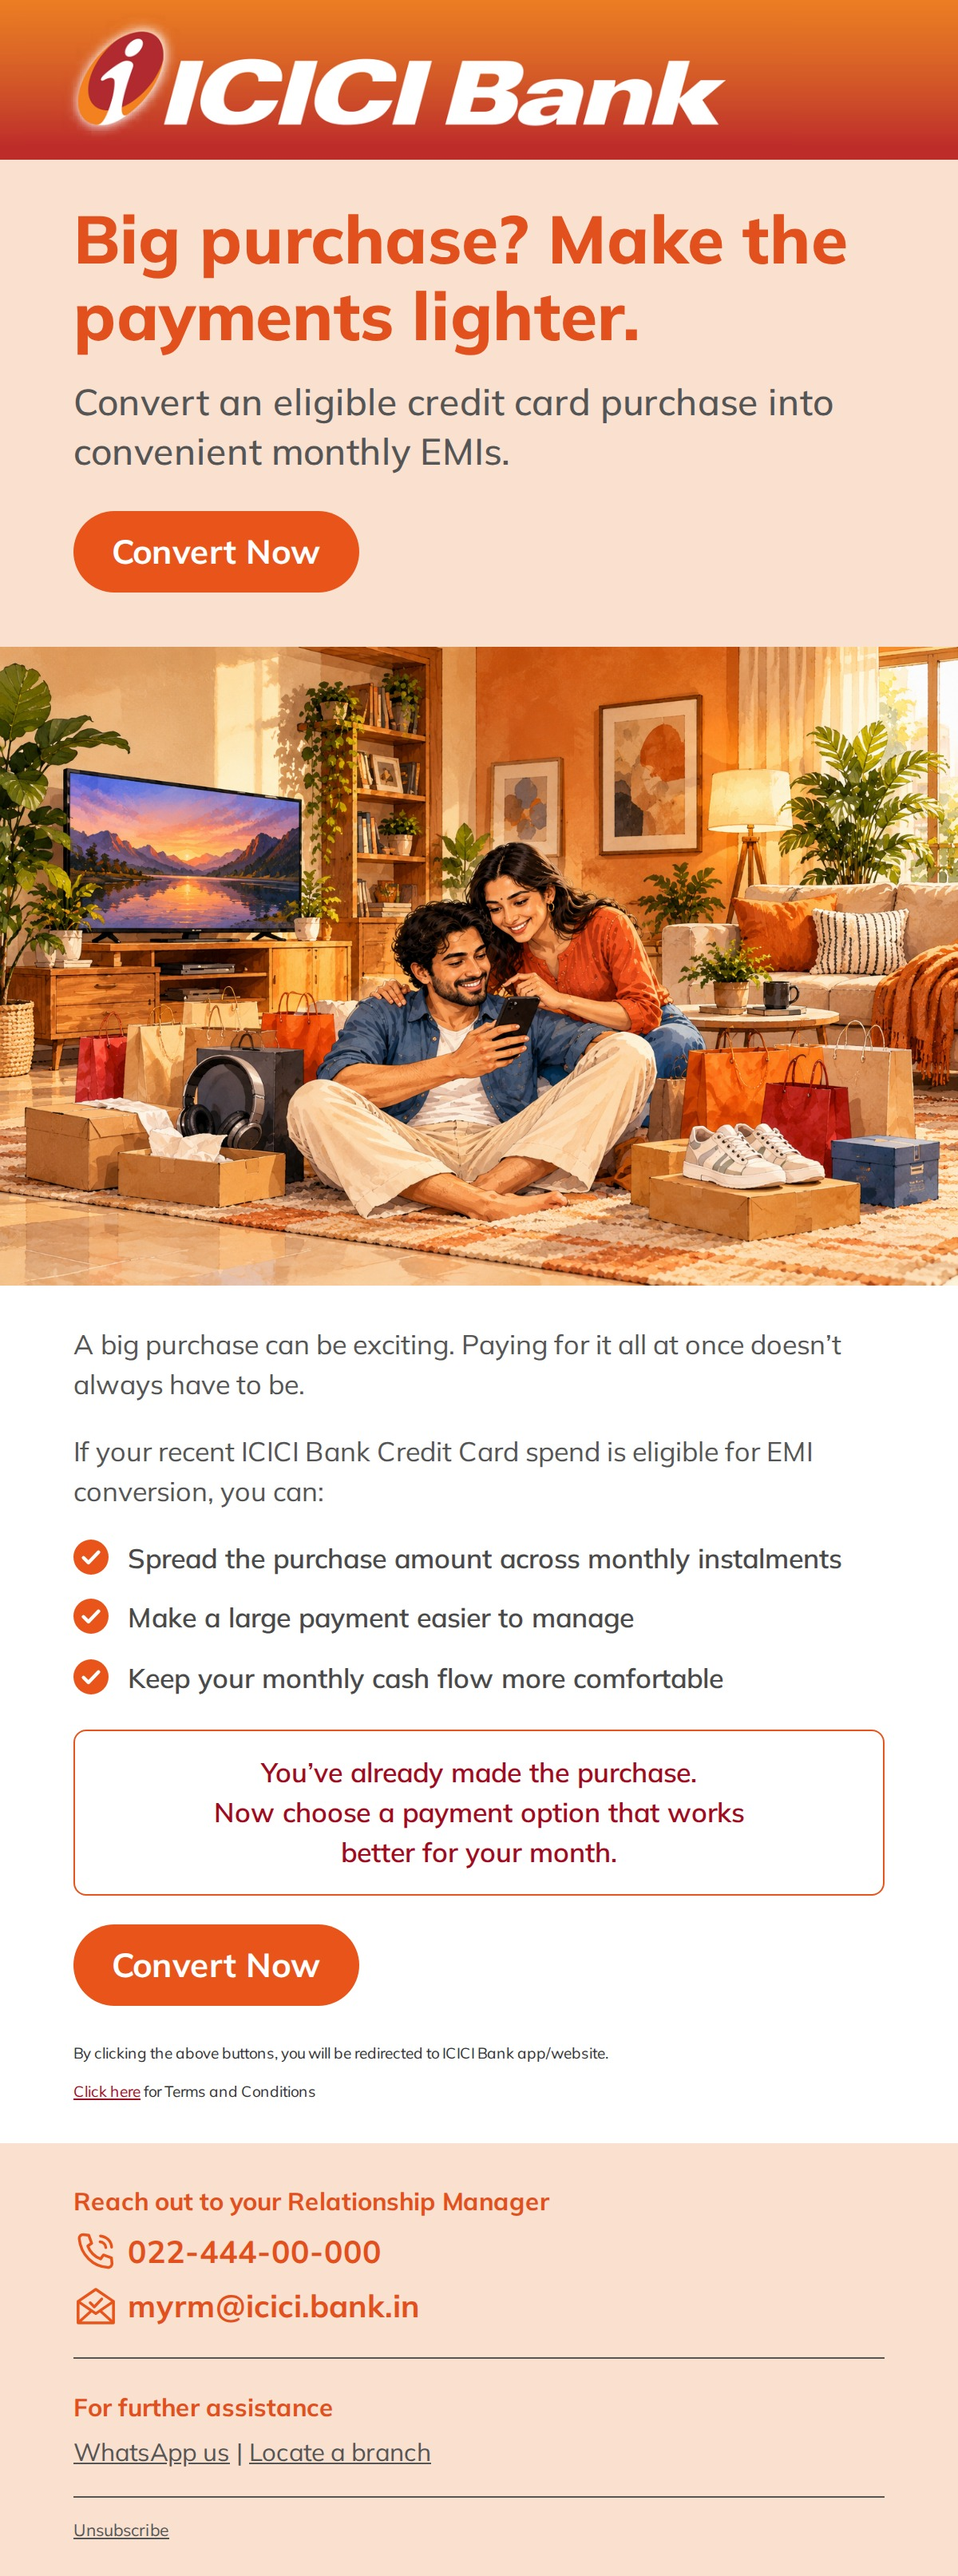
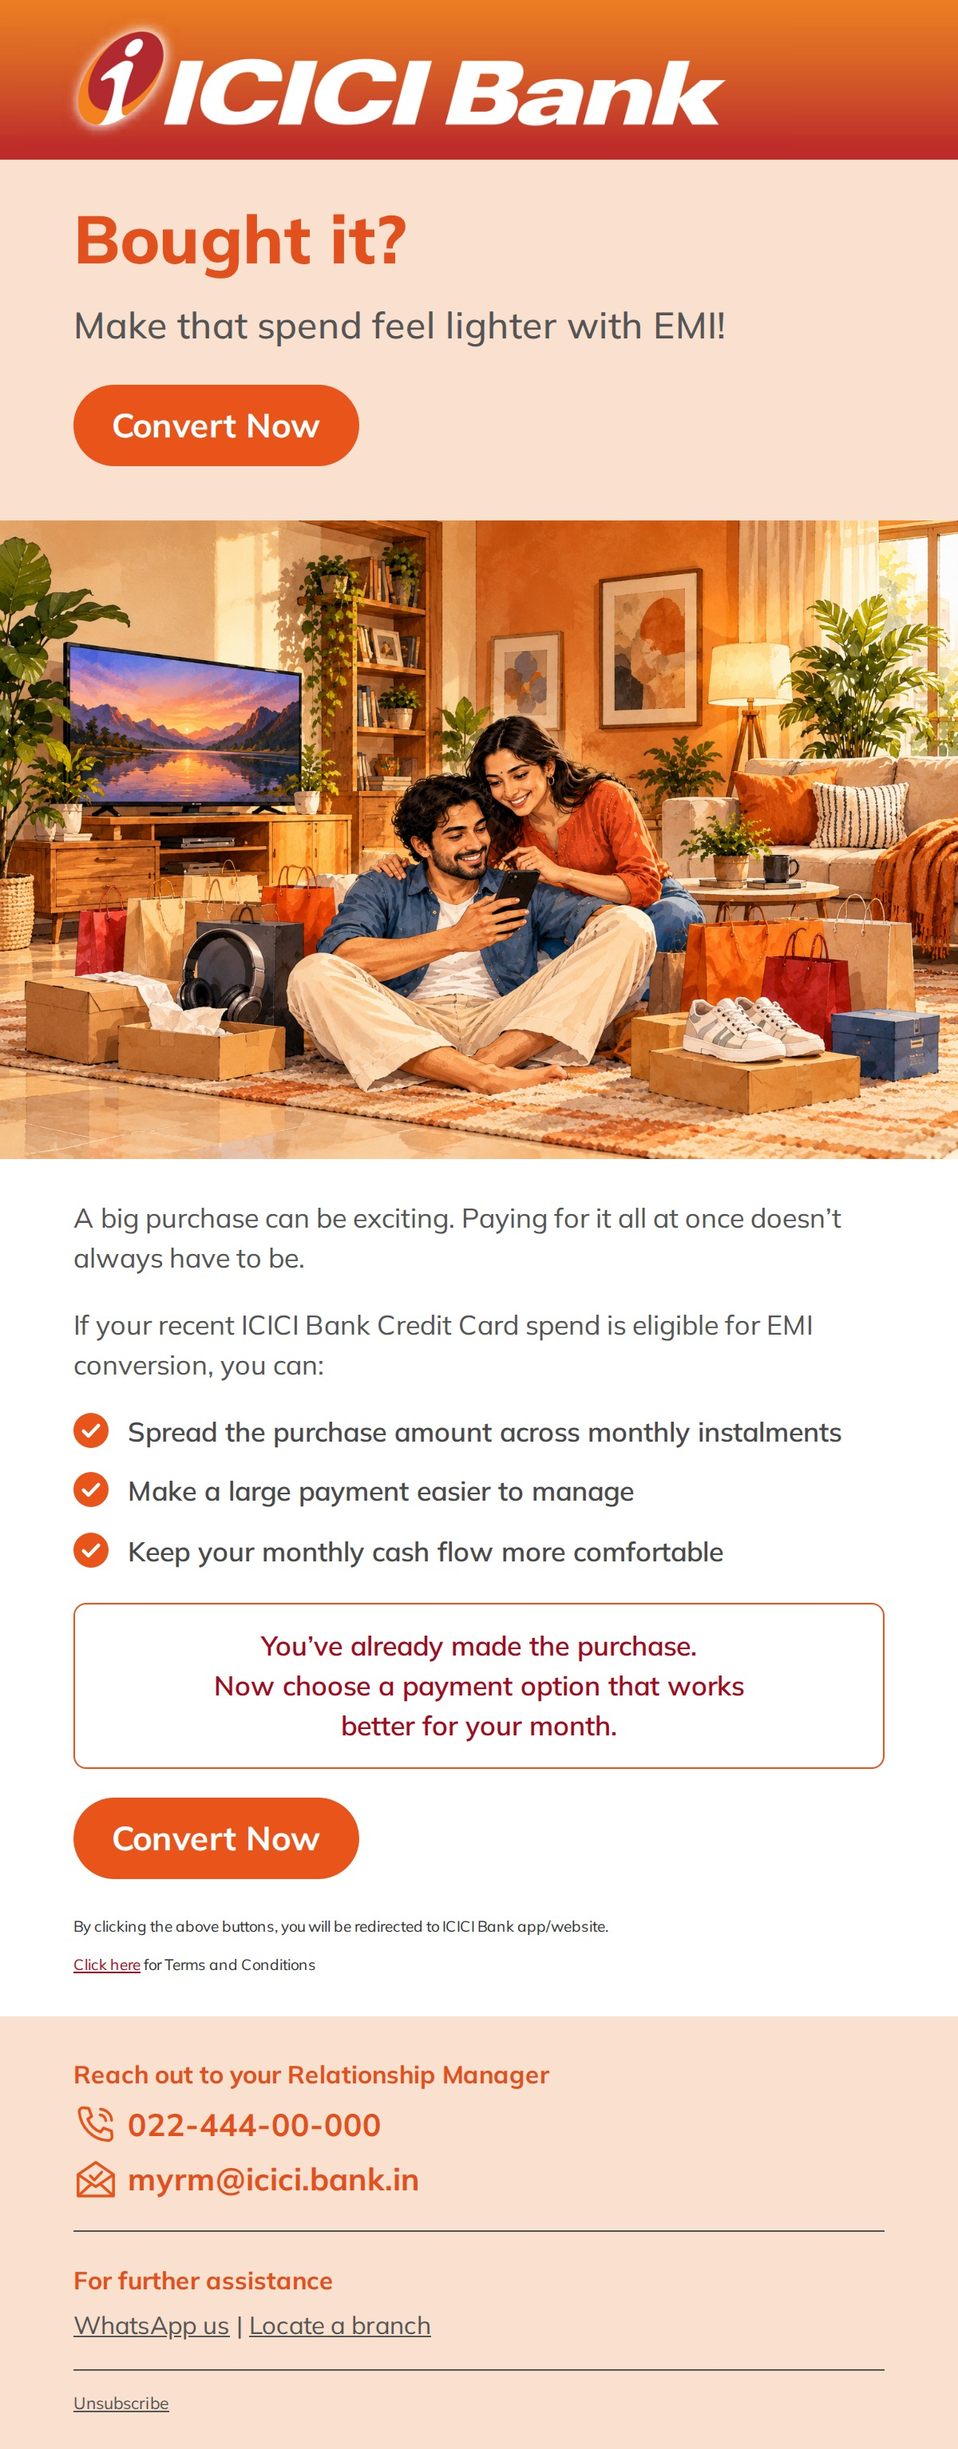
EMI mailer: restore original headline and subheadline
"Bought it?" / "Make that spend feel lighter with EMI!"

Claude-Session: https://claude.ai/code/session_01Xrrh9AtUaVEQQhgAmmX2d4

diff --git a/mailers/source/mailer2.html b/mailers/source/mailer2.html
@@ -33,7 +33,7 @@ h1{font-size:42px;line-height:1.14;font-weight:800;color:#E2501D;letter-spacing:
 
 .body{text-align:left}.imgcrop img{margin-top:-0px}.imgcrop{overflow:hidden;height:400px}</style></head><body><div class="m">
 <div class="hd"><img src="logo-band.png" alt="ICICI Bank"></div>
-<div class="hero"><h1>Big purchase? Make the payments lighter.</h1><p class="sub">Convert an eligible credit card purchase into convenient monthly EMIs.</p><a class="btn">Convert Now</a></div>
+<div class="hero"><h1>Bought it?</h1><p class="sub">Make that spend feel lighter with EMI!</p><a class="btn">Convert Now</a></div>
 <div class="vis imgcrop"><img src="ill-emi.png" style=""></div>
 <div class="body"><p>A big purchase can be exciting. Paying for it all at once doesn’t always have to be.</p><p>If your recent ICICI Bank Credit Card spend is eligible for EMI conversion, you can:</p><div class="list"><div class="li"><svg width="22" height="22" viewBox="0 0 22 22"><circle cx="11" cy="11" r="11" fill="#E8541A"/><path d="M6.3 11.4l3.1 3.1 6.3-6.6" fill="none" stroke="#fff" stroke-width="2.2" stroke-linecap="round" stroke-linejoin="round"/></svg><span>Spread the purchase amount across monthly instalments</span></div><div class="li"><svg width="22" height="22" viewBox="0 0 22 22"><circle cx="11" cy="11" r="11" fill="#E8541A"/><path d="M6.3 11.4l3.1 3.1 6.3-6.6" fill="none" stroke="#fff" stroke-width="2.2" stroke-linecap="round" stroke-linejoin="round"/></svg><span>Make a large payment easier to manage</span></div><div class="li"><svg width="22" height="22" viewBox="0 0 22 22"><circle cx="11" cy="11" r="11" fill="#E8541A"/><path d="M6.3 11.4l3.1 3.1 6.3-6.6" fill="none" stroke="#fff" stroke-width="2.2" stroke-linecap="round" stroke-linejoin="round"/></svg><span>Keep your monthly cash flow more comfortable</span></div></div><div class="call">You’ve already made the purchase.<br>Now choose a payment option that works<br>better for your month.</div></div>
 <div class="cta2"><a class="btn">Convert Now</a></div>

diff --git a/mailers/source/build.py b/mailers/source/build.py
@@ -63,7 +63,7 @@ M1=dict(h1='Make recurring payments simpler',sub='Set it once, and let your paym
  list=['Set up eligible recurring payments once','Avoid making the same payment manually every month','Manage eligible regular bills through iMobile'],
  close='A little automation can make your monthly money routine one thing simpler.',callout=False,
  sys='<p style="margin-bottom:2px">This is a system generated e-mail. Please do not reply.</p>')
-M2=dict(h1='Big purchase? Make the payments lighter.',sub='Convert an eligible credit card purchase into convenient monthly EMIs.',cta='Convert Now',
+M2=dict(h1='Bought it?',sub='Make that spend feel lighter with EMI!',cta='Convert Now',
  img='ill-emi.png',crop=0,h=400,align='left',
  pre=['A big purchase can be exciting. Paying for it all at once doesn’t always have to be.',
       'If your recent ICICI Bank Credit Card spend is eligible for EMI conversion, you can:'],
